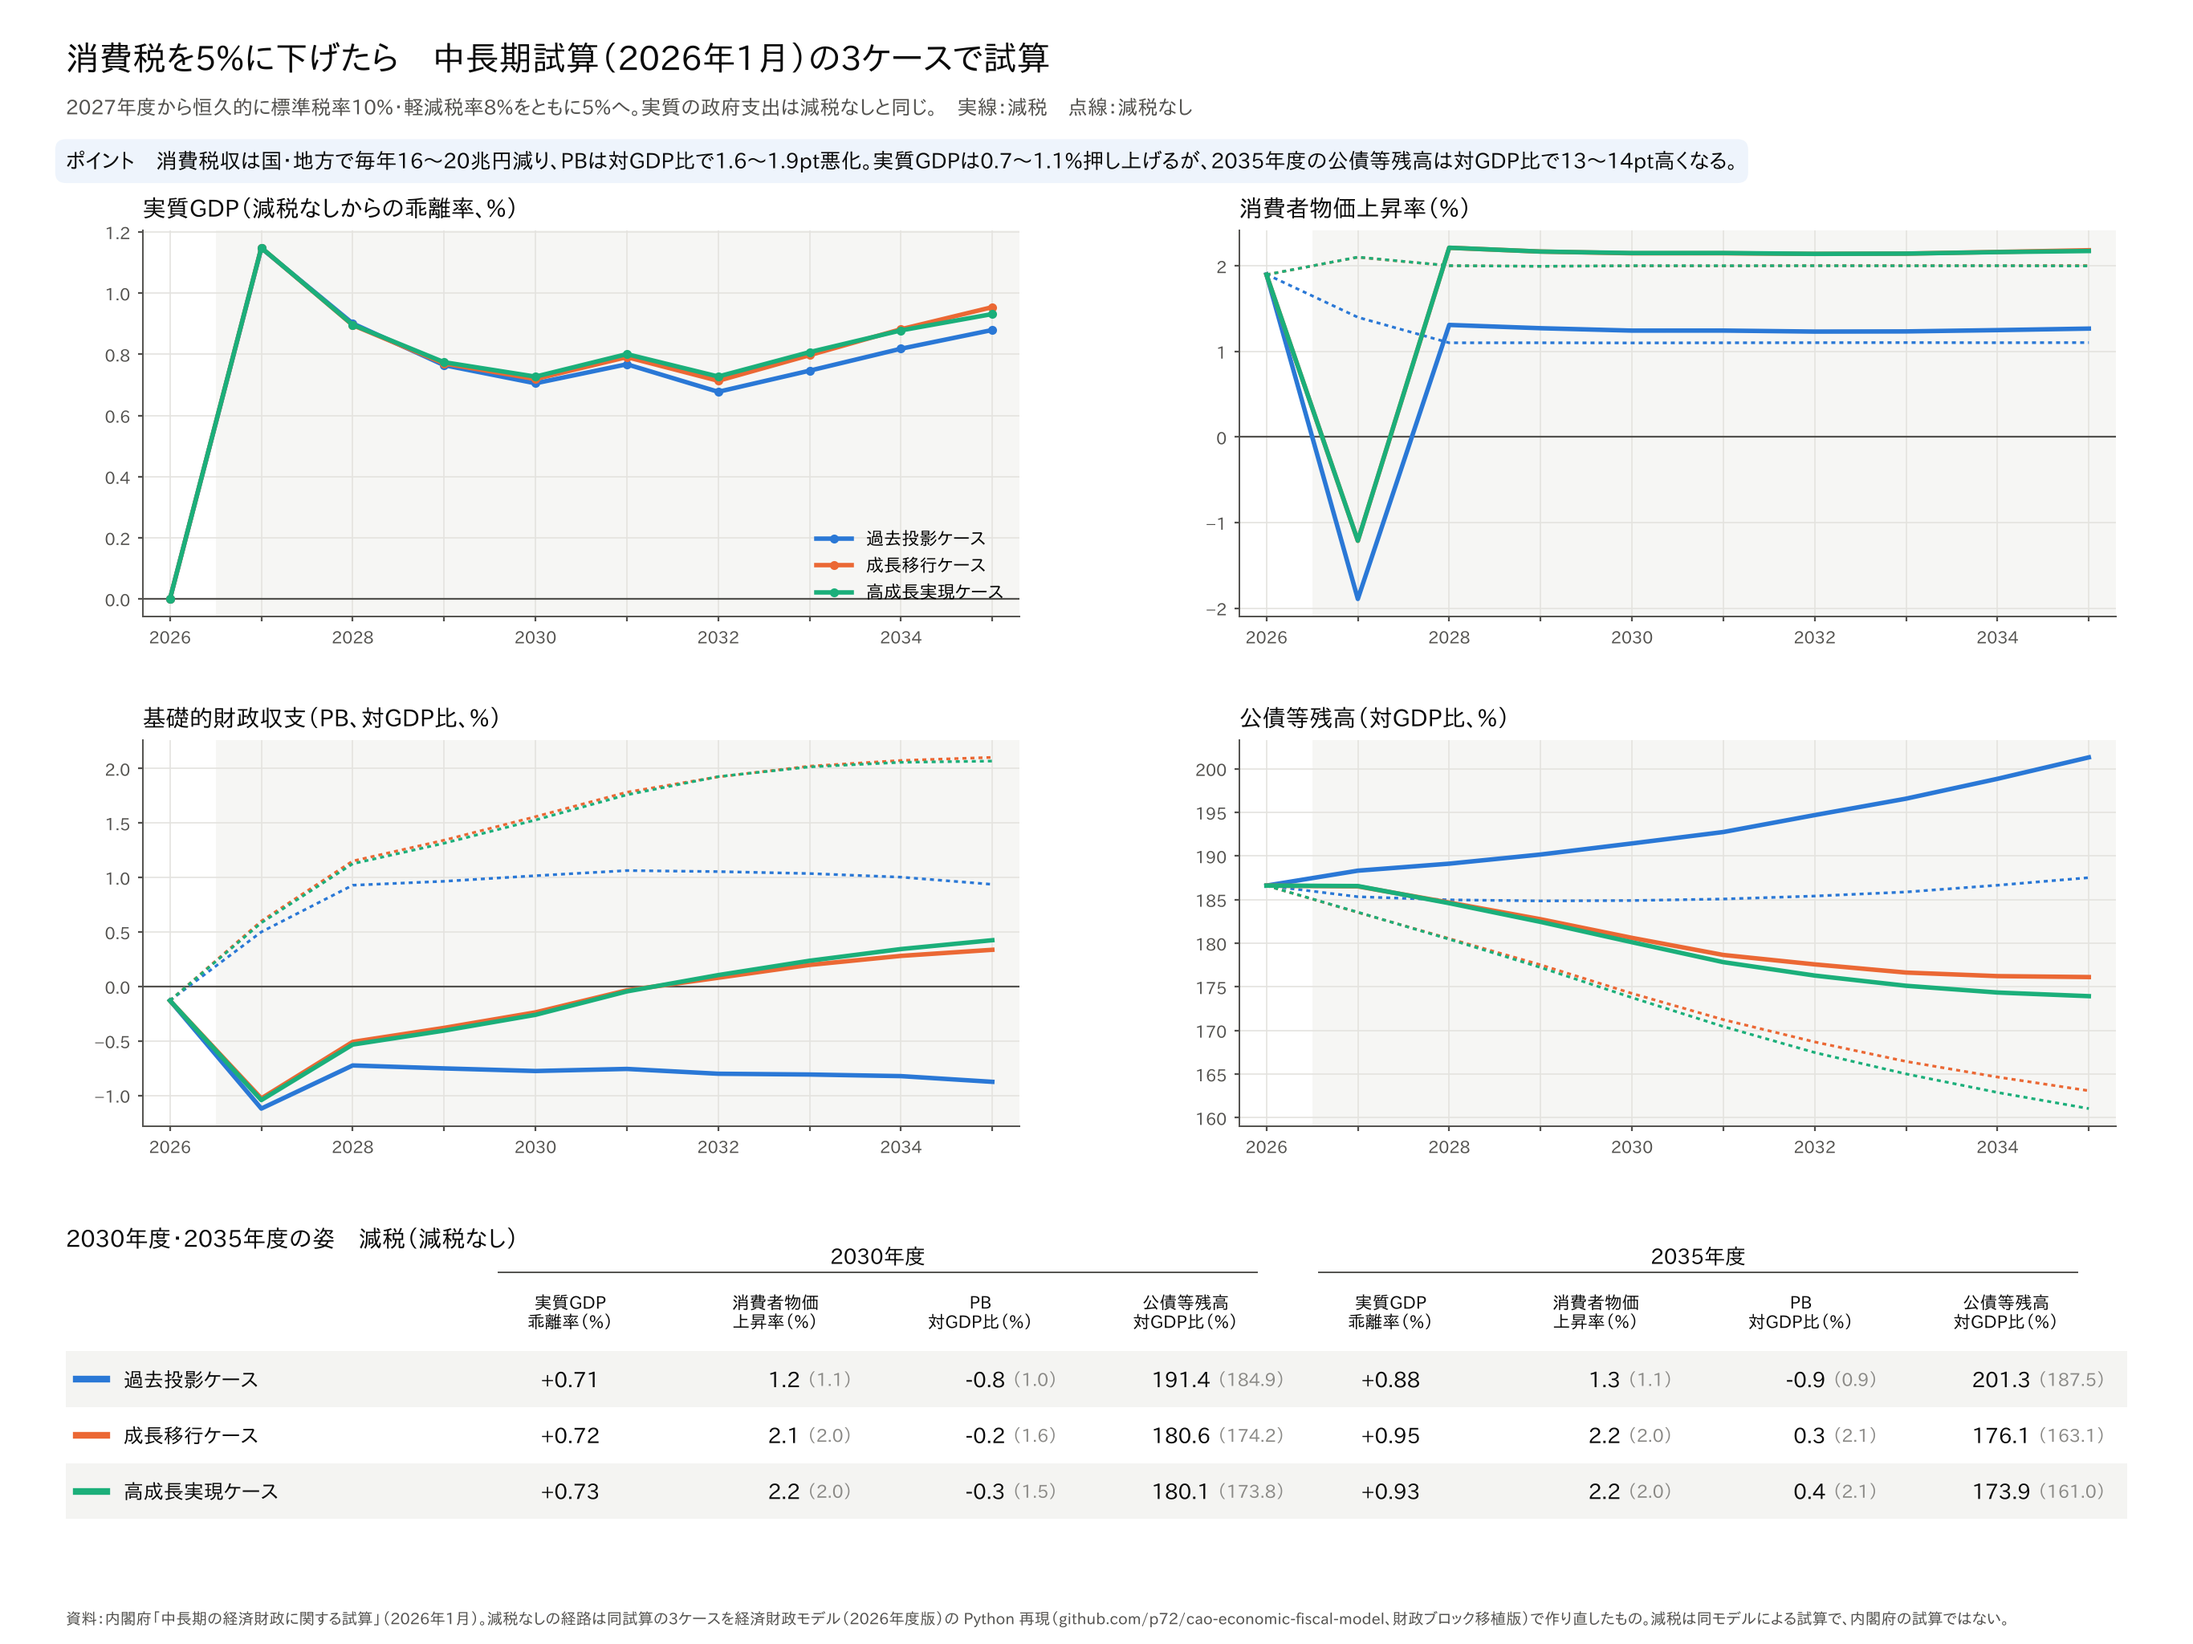
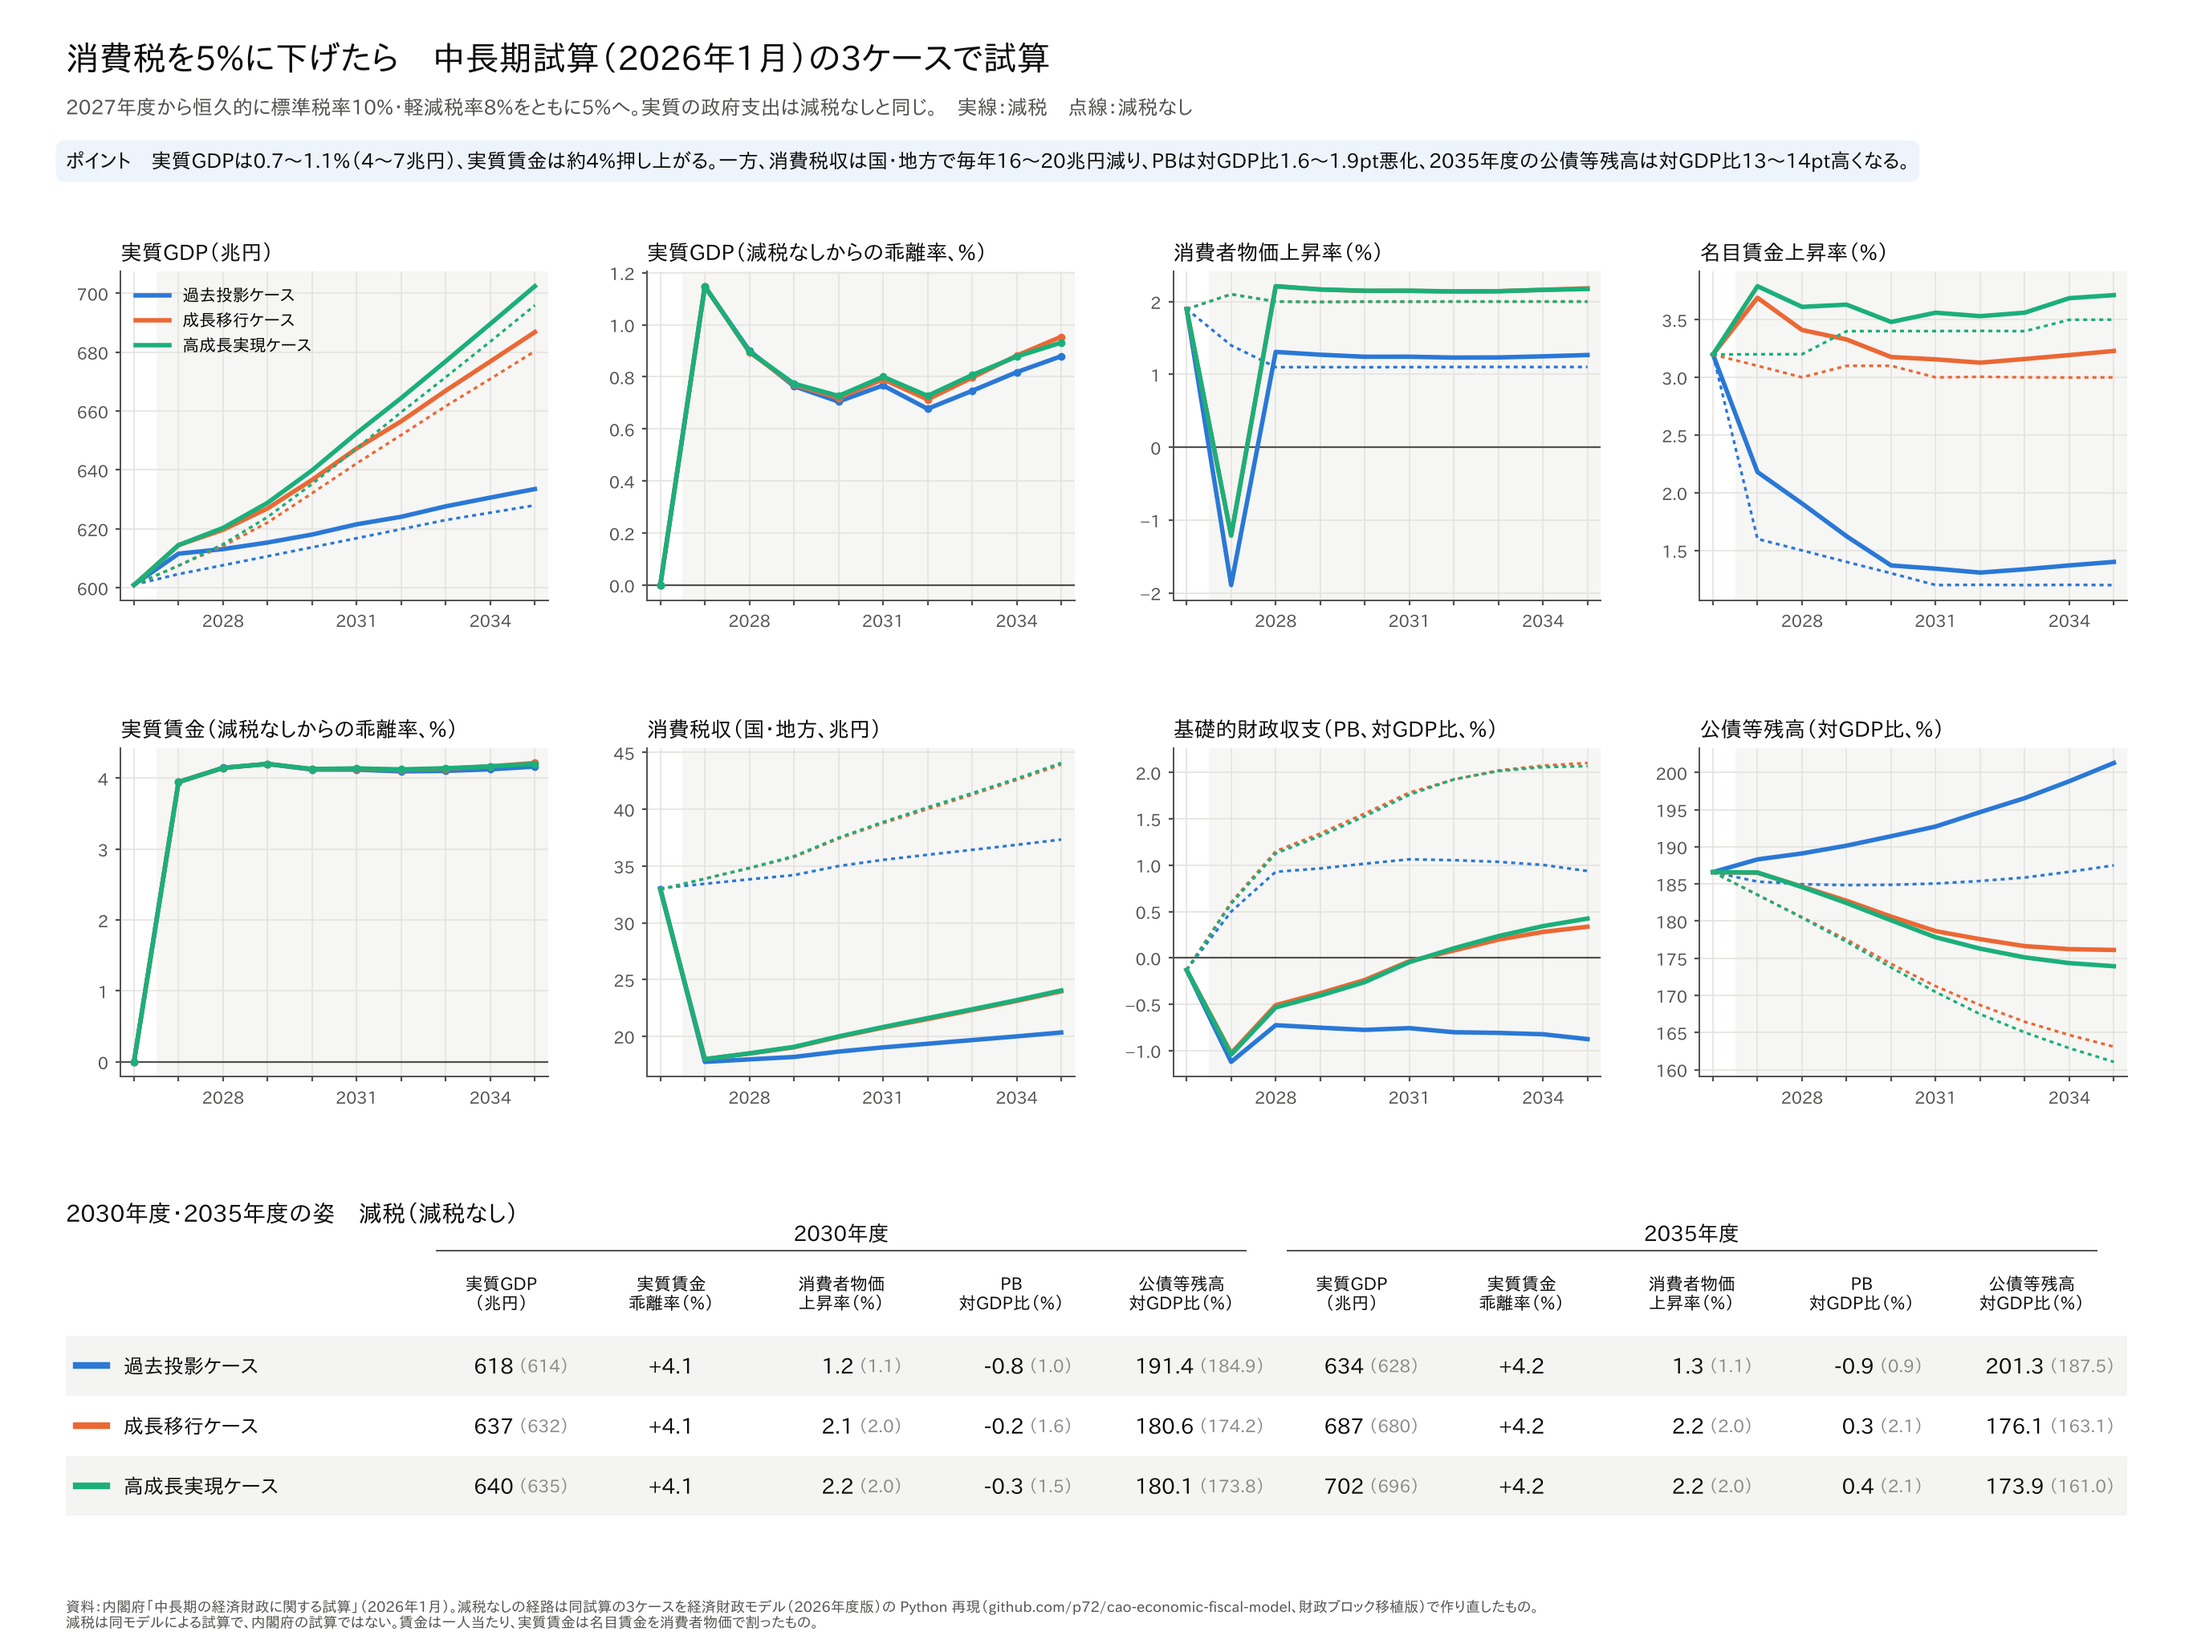
消費税5%のシナリオの図に実質GDPの水準と賃金（名目上昇率、実質賃金）を追加
Claude-Session: https://claude.ai/code/session_01KDjnEqptnoe93xLd13JCEd

diff --git a/src/ctax5.py b/src/ctax5.py
@@ -6,7 +6,8 @@
 
 再現経路の最終状態（data と af）は output/parts/proj_state_{case}.pkl に保存する。ないときは projection.py を
 実行して作る（1ケース約30分、高成長実現ケースは成長移行ケースの後）。
-出力: output/ctax5_scenario.csv（列: case, scen（base=減税なし、cut=減税）, year, 各変数）
+出力: output/ctax5_scenario.csv（列: case, scen（base=減税なし、cut=減税）, year, 各変数。rgdp は実質GDP（10億円）、
+w は一人当たり賃金、rw は w を消費者物価で割った実質賃金）
 """
 from __future__ import annotations
 
@@ -43,6 +44,7 @@ def row(case: str, scen: str, d: dict, t: int) -> dict:
     g = lambda v: (d[v][t] / d[v][t - 1] - 1) * 100  # noqa: E731
     return {"case": case, "scen": scen, "year": t, "rgdp": d["M_GDP"][t], "rgdp_g": g("M_GDP"),
             "ngdp": d["M_GDPV"][t] / 1000, "cpi_g": g("M_CPIG"), "pgdp_g": g("M_PGDP"), "cp": d["M_CP"][t],
+            "w": d["M_W"][t], "w_g": g("M_W"), "rw": d["M_W"][t] / d["M_CPIG"][t],
             "pb": d["M_PBGAGDPV"][t], "debt": d["Z_DEBTAGDP"][t], "rgb": d["M_RGB"][t], "tciv": d["Z_TCIV"][t] / 1000}
 
 

diff --git a/README.md b/README.md
@@ -306,7 +306,8 @@ py src/plot_chuuchouki.py      # その図
 ![消費税5%](output/ctax5_scenario.png)
 
 - 消費税収は国・地方で毎年16〜20兆円減り、基礎的財政収支は対GDP比で1.6〜1.9%pt悪化する。
-- 実質GDPは1年目+1.2%、2035年度+0.9%前後。消費者物価は2027年度に約3%pt下がり、その後は減税なしより0.2%pt程度高い。
+- 実質GDPは1年目+1.2%、2035年度+0.9%前後（4〜7兆円）。消費者物価は2027年度に約3%pt下がり、その後は減税なしより0.2%pt程度高い。
+- 実質賃金（一人当たり賃金を消費者物価で割ったもの）は約4%高くなる。ほとんどは物価が下がる分で、名目賃金の上昇率は0.1〜0.4%pt程度高い。
 - 長期金利は2035年度に+0.8%pt程度上がり、公債等残高比は2035年度に13〜14%pt高くなる（過去投影 201%、成長移行 176%、高成長実現 174%）。
 
 ## 再現：中長期試算（2026年1月）の感応度分析（`src/chuuchouki.py`、`src/plot_chuuchouki.py`）
